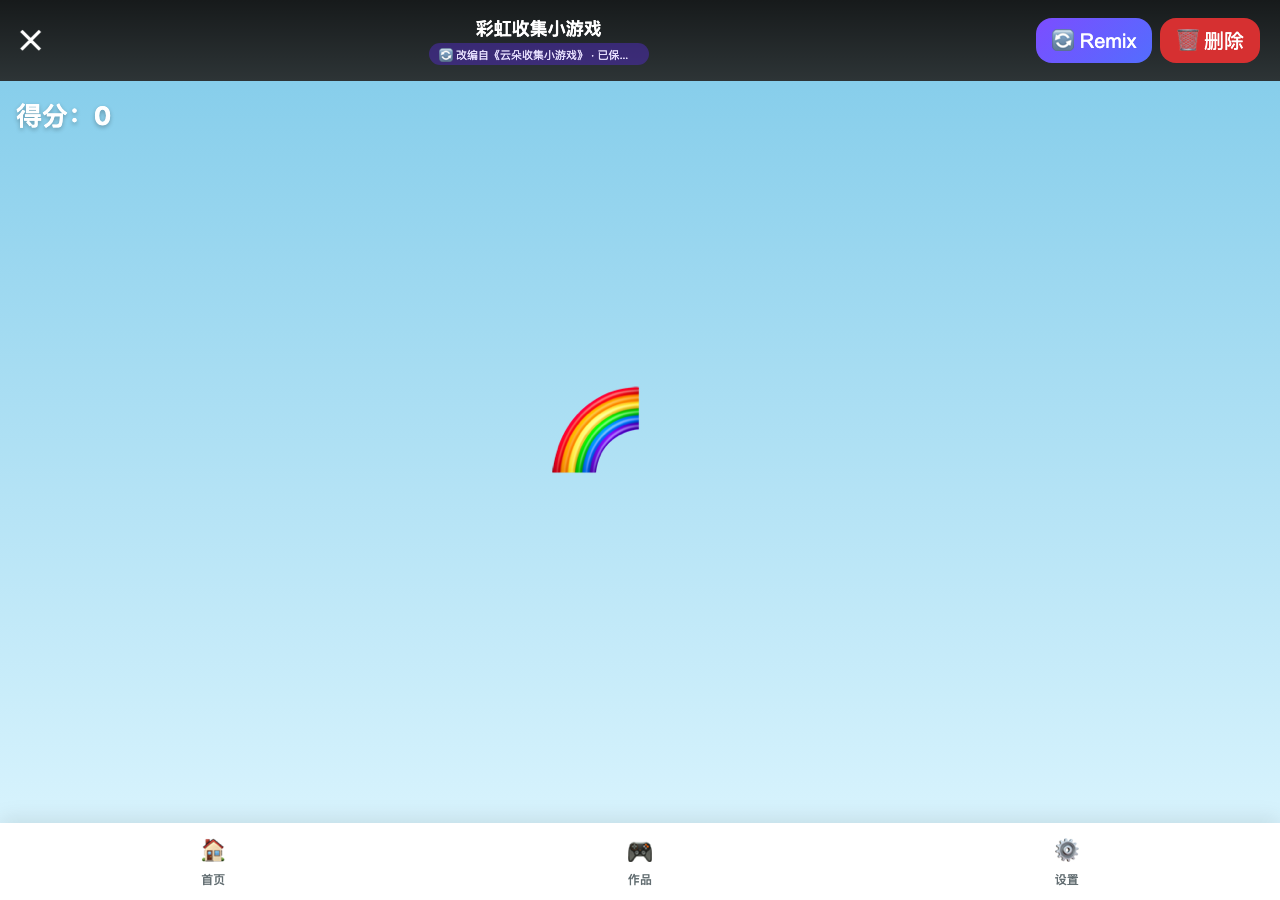
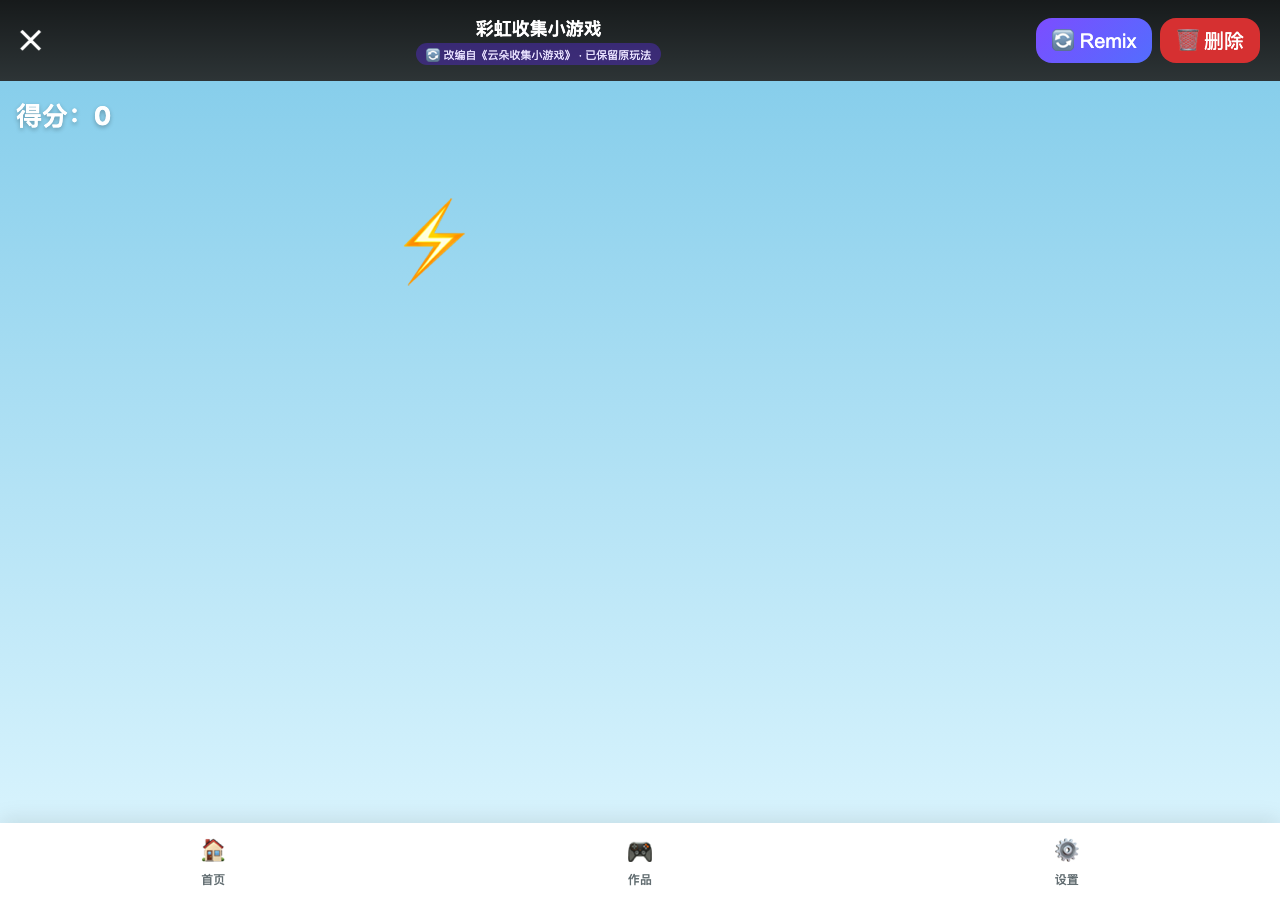
test(v3.3): 更新线上验收截图与最终资源标识

Changed region(s): [[0.3125, 0.0311, 0.5312, 0.0933], [0.4062, 0.4356, 0.5, 0.5289], [0.3125, 0.2178, 0.375, 0.3111]]

diff --git a/temp/v3.3/uat-test-report-2026-10-19.md b/temp/v3.3/uat-test-report-2026-10-19.md
@@ -157,7 +157,7 @@ node temp/v3.3/real-remix-check.mjs
 部署信息：
 
 - GitHub 提交：`0b6df55 feat(v3.3): Remix 基于原游戏完整源码与结构档案做增量改编`
-- 线上资源：`/assets/index-B7Lm2dwN.js`
+- 线上资源：`/assets/index-BrX-Qvh9.js`、`/assets/index-BzZ_yHXf.css`
 - 部署确认：线上 JS 已包含「基于《」「保留原玩法」「不会重新生成一个完全不同的游戏」
 
 API 验收：
@@ -169,7 +169,7 @@ node temp/v3.3/vercel-remix-check.mjs
 
 | 用例 | 结果 |
 |------|------|
-| 线上页面 / JS 资源 | 200，新资源已生效 |
+| 线上页面 / JS / CSS 资源 | 200，新资源已生效（含加宽后的改编来源徽标） |
 | 线上 Remix | 200，耗时 49.9s，`remixMode=full`，输出 2,887 字节 |
 | 结构审计 | render/interactions/score/winLose 全部保留，`preserved=true`，`changed=true` |
 | 指令落实 | 云朵 → 🌈 彩虹，新增 ⚡ 闪电扣分逻辑 |
